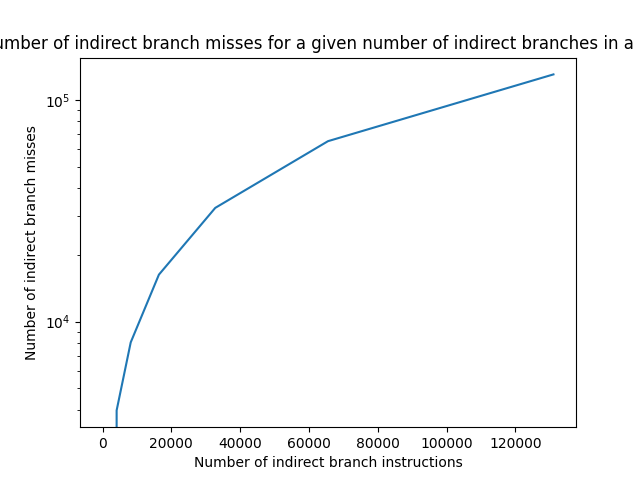
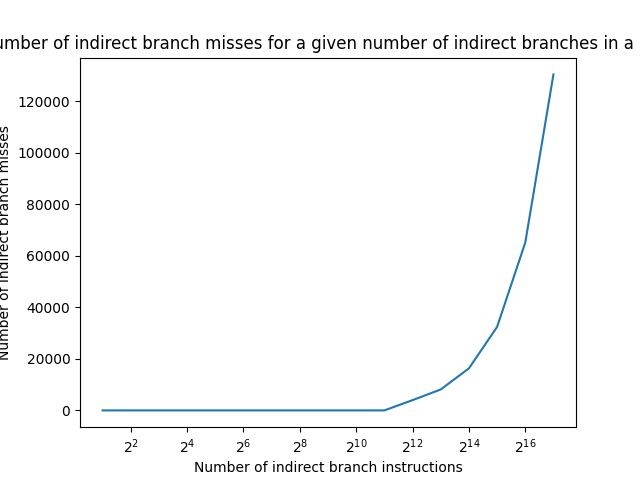
Fixed plot scale

diff --git a/btb_size/size_even_odd.py b/btb_size/size_even_odd.py
@@ -73,5 +73,5 @@ plt.title("Number of indirect branch misses for a given number of indirect branc
 plt.xlabel("Number of indirect branch instructions")
 plt.ylabel("Number of indirect branch misses")
 plt.plot(branches_arr, num_misses)
-plt.yscale("log")
+plt.xscale("log", base=2)
 plt.savefig("plots/size_even_odd.png")
